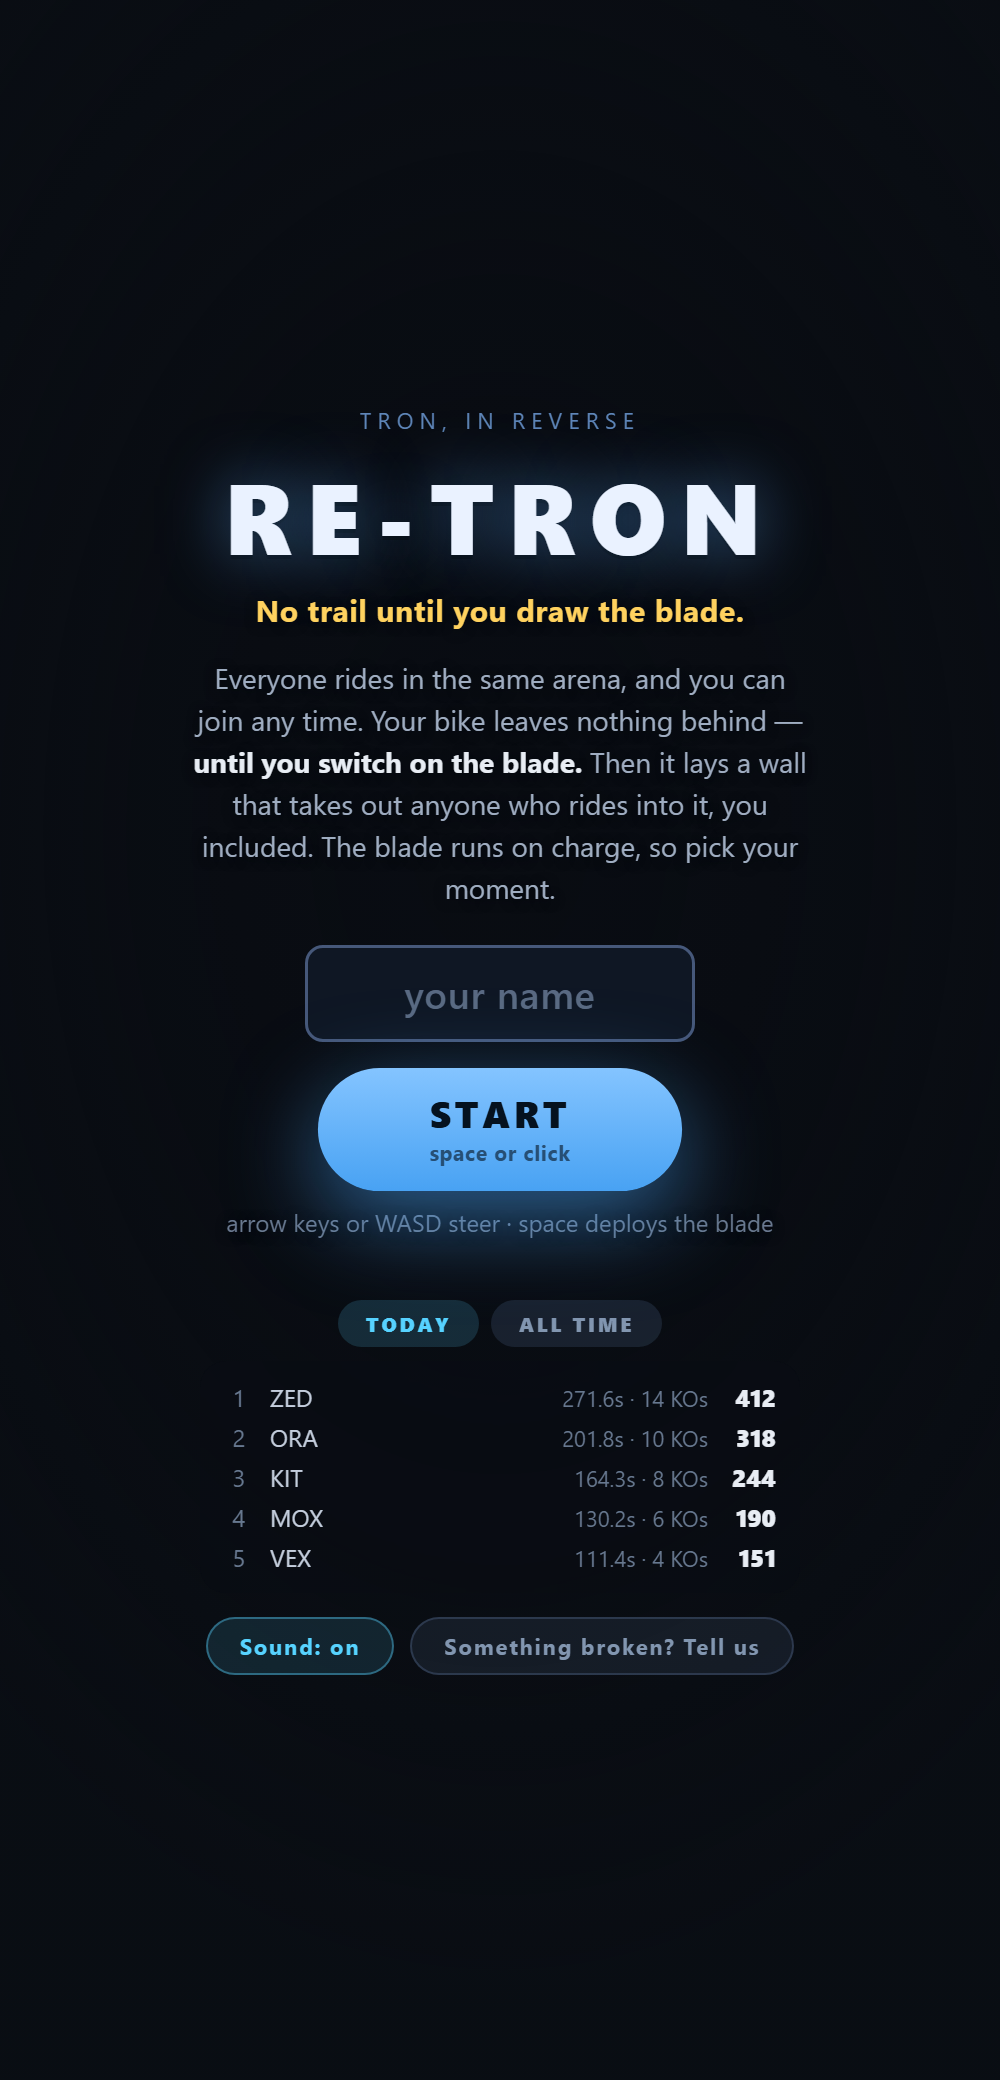
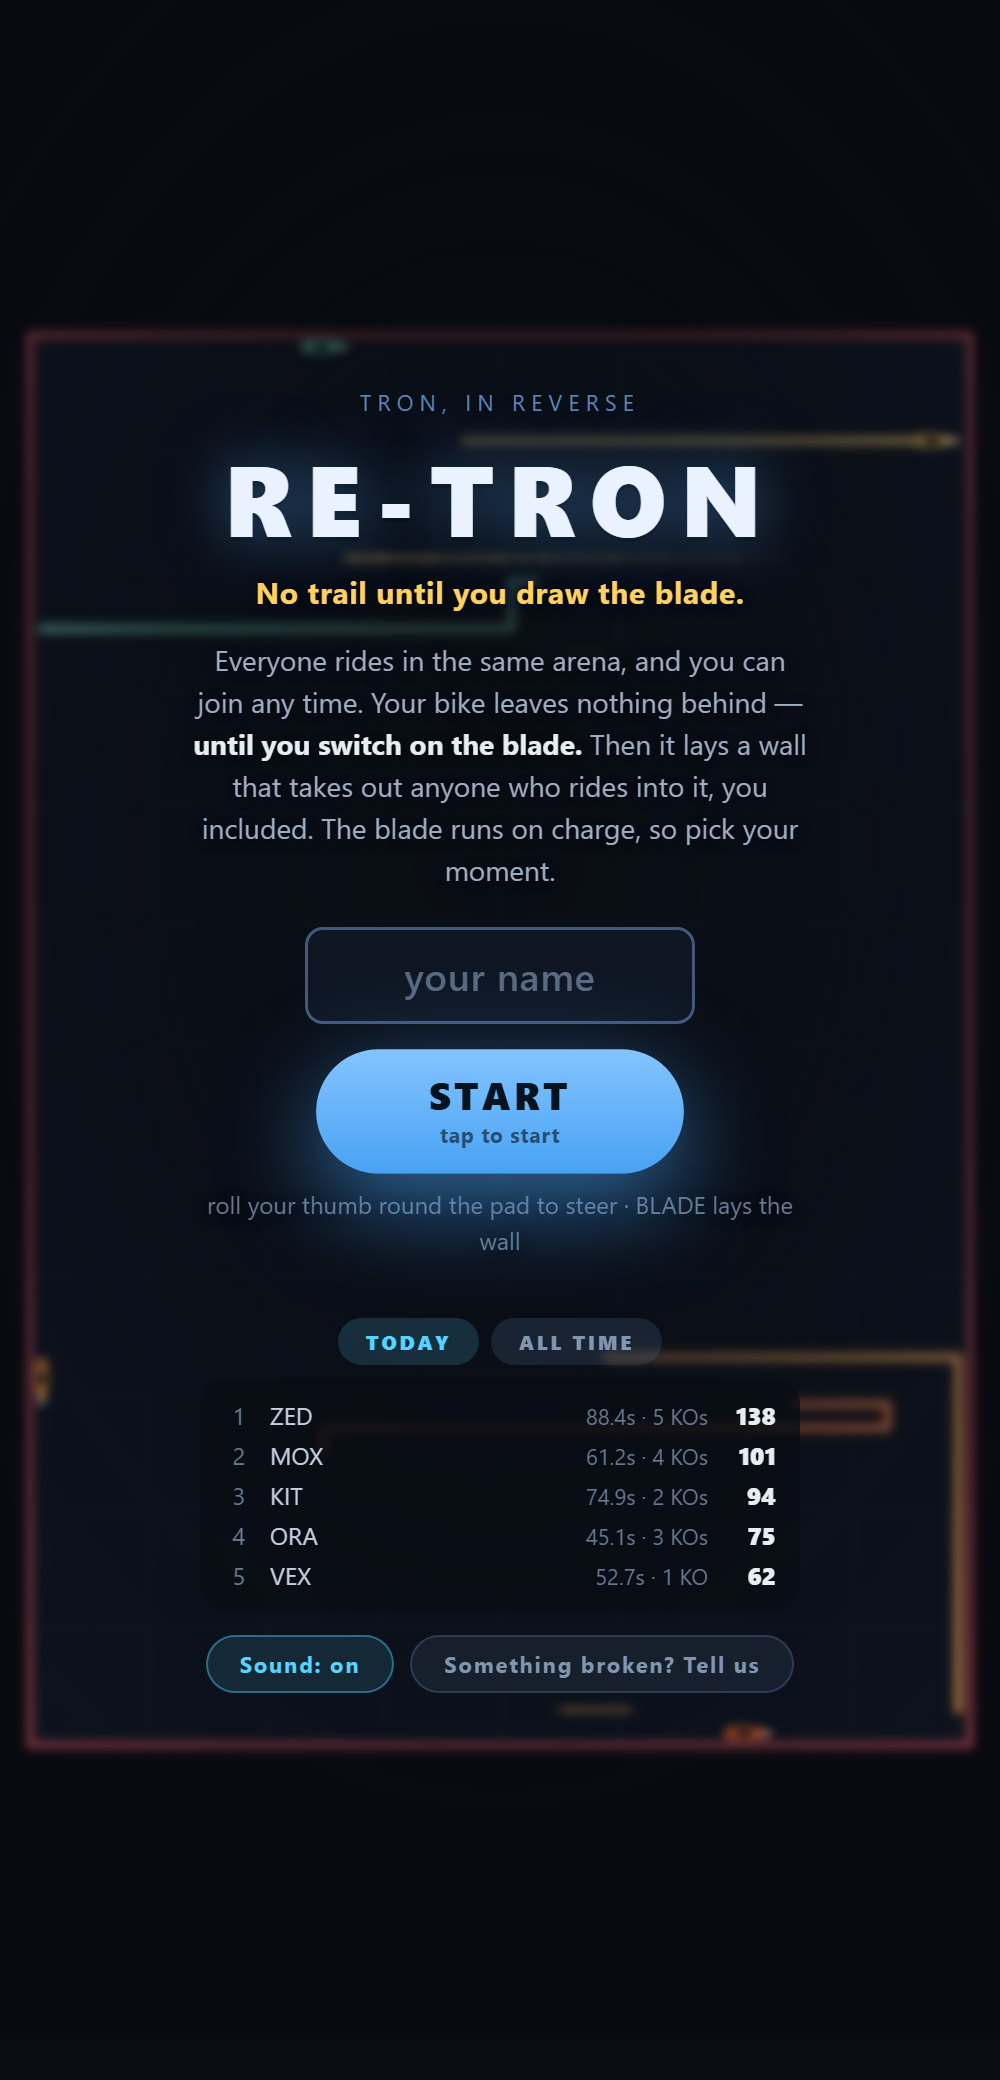
The one picture of the menu told phone players to press keys they do not have
shot-0-menu.png was made on 30 Sep by a probe that never set isTouch, so it
showed the desktop copy - arrow keys, WASD, space - and the desktop button
subtitle, on the shot most people open from a phone. It also showed an empty
floor behind the menu, three weeks after the attract loop was added precisely
because an empty floor read as dead.

Retaken from the page the way the wide shot now is: make-menu-shot.py forces
isTouch, leaves fetch pending so nothing touches the live arena, steps the
menu's own attract loop with a seeded random, and asks headless Edge for one
frame. Same size as the file it replaces. The seed was picked by measuring
twenty runs for the one that leaves the most ribbon down with all four riders
still up. The board rows are made up, like the wide shot's, but obey the real
scoring rule.

Changed region(s): [[0.0, 0.1562, 0.992, 0.8438], [0.31, 0.4375, 0.341, 0.4688]]

diff --git a/press/make-menu-shot.py b/press/make-menu-shot.py
@@ -1,0 +1,94 @@
+"""Re-take press/shot-0-menu.png from whatever index.html currently draws.
+
+Run it from the repo root: python press/make-menu-shot.py
+
+The shot it replaces was taken on 30 Sep by a probe that never set isTouch, so the one picture of
+the menu showed the DESKTOP copy ("arrow keys or WASD steer - space deploys the blade", "space or
+click") squeezed into a phone's proportions - keys a phone does not have, on the shot most people
+open from a phone. It also showed an empty floor behind the menu, three weeks after the attract
+loop was added precisely because an empty floor read as dead. Same lesson as the wide shot: the
+picture has to be regenerated from the page, not remembered.
+
+How it works: index.html is copied to a scratch probe with requestAnimationFrame stubbed out, fetch
+left pending (so nothing touches the live arena and the board never says it failed to load) and
+isTouch forced true, then the menu's own attract loop is stepped a few hundred times for riders on
+the floor and headless Edge is asked for one screenshot. Quirks handled, all measured:
+  * Edge lays the page out at the window size but reports innerWidth/innerHeight smaller, so the
+    canvas is sized from the window size rather than from fit().
+  * Edge does not composite a canvas into --screenshot, so the probe hands it a plain <img> of the
+    same pixels (cv.toDataURL) BEHIND the menu, and hides the canvas. The overlay is DOM and
+    composites on its own.
+  * Back-to-back Edge runs write nothing at all, roughly every other try, hence the retry loop.
+  * Math.random is seeded, so the riders land in the same place every run and a re-shoot is a
+    re-shoot rather than a new picture.
+
+The board rows are made up, the same way the wide shot's in-arena top-riders list is: the live board
+is pre-launch junk and will be wiped on launch morning. They obey the real scoring rule
+(score = whole seconds alive + 10 per knockout) so nothing in the picture is impossible.
+"""
+import os, shutil, subprocess, sys, tempfile, time
+
+EDGE = r"C:/Program Files (x86)/Microsoft/Edge/Application/msedge.exe"
+HERE = os.path.dirname(os.path.abspath(__file__))
+ROOT = os.path.dirname(HERE)
+PROBE = os.path.join(ROOT, "_probe_menu.html")
+OUT = os.path.join(HERE, "shot-0-menu.png")
+CSS_W, CSS_H, SCALE = 500, 1040, 2        # 1000x2080, the size of the file this replaces
+
+SCENE = """
+<script>
+setTimeout(function () {
+  let seed = 118785;   // picked by measurement: of twenty, the run that leaves the most ribbon on the floor with all four riders still up
+  Math.random = () => (seed = (seed * 1103515245 + 12345) & 0x7fffffff) / 0x80000000;
+  for (let i = 0; i < 520; i++) demoStep();   // the menu's own riders, laying and losing real ribbon
+  lbData = {
+    today: [['ZED', 138, 88.4, 5], ['MOX', 101, 61.2, 4], ['KIT', 94, 74.9, 2], ['ORA', 75, 45.1, 3], ['VEX', 62, 52.7, 1]],
+    all: [['ZED', 309, 199.3, 11], ['NYX', 241, 141.6, 10], ['MOX', 188, 128.4, 6], ['KIT', 150, 90.2, 6], ['ORA', 121, 71.8, 5]]
+  };
+  lbView = 'today'; paintLb();
+  dpr = %(scale)d; cw = %(w)d; ch = %(h)d;
+  cv.style.width = cw + 'px'; cv.style.height = ch + 'px';
+  cv.width = cw * dpr; cv.height = ch * dpr;
+  draw();
+  const img = new Image();
+  img.src = cv.toDataURL('image/png');
+  img.style.cssText = 'position:fixed;left:0;top:0;width:' + cw + 'px;height:' + ch + 'px;z-index:0';
+  cv.style.display = 'none';
+  document.body.prepend(img);
+}, 1200);
+</script>
+""" % {"scale": SCALE, "w": CSS_W, "h": CSS_H}
+
+
+def main():
+    page = open(os.path.join(ROOT, "index.html"), encoding="utf-8").read()
+    if page.count("<script>") != 1:
+        sys.exit("index.html no longer has exactly one <script> block - check the probe still fits")
+    if page.count("const isTouch =") != 1:
+        sys.exit("index.html no longer declares isTouch once - check the probe still fits")
+    page = page.replace("<script>", "<script>requestAnimationFrame = () => 0; fetch = () => new Promise(() => {});", 1)
+    page = page.replace("const isTouch =", "const isTouch = true ||", 1)   # a phone, so the phone copy and the pad
+    page = page.replace("</body>", SCENE + "</body>", 1)
+    open(PROBE, "w", encoding="utf-8", newline="").write(page)
+    profiles = tempfile.mkdtemp(prefix="retron-shot-")   # not under ROOT: these must never land in the repo
+    try:
+        if os.path.exists(OUT):
+            os.remove(OUT)
+        for i in range(6):
+            subprocess.run([EDGE, "--headless=new", "--disable-gpu", "--hide-scrollbars",
+                            "--window-size=%d,%d" % (CSS_W, CSS_H),
+                            "--force-device-scale-factor=%d" % SCALE,
+                            "--screenshot=" + OUT, "--virtual-time-budget=6000",
+                            "--user-data-dir=%s" % os.path.join(profiles, str(i)),
+                            "file:///" + PROBE.replace(os.sep, "/")], capture_output=True)
+            if os.path.exists(OUT):
+                print("wrote %s (%d bytes) on try %d" % (OUT, os.path.getsize(OUT), i + 1))
+                return
+            time.sleep(3)
+        sys.exit("Edge wrote no screenshot in six tries")
+    finally:
+        os.path.exists(PROBE) and os.remove(PROBE)
+        shutil.rmtree(profiles, ignore_errors=True)
+
+
+main()

diff --git a/press/launch-copy.md b/press/launch-copy.md
@@ -110,7 +110,7 @@ All four verdicts are asserted offline by `python preflight.py --self-check`.
 | `re-tron.zip` | The game for itch's upload box: index.html, manifest, icons, favicon, og.png. No build step, no server files — the arena is a Cloudflare Worker the page talks to over the network. **Repack it whenever any of those eight files changes** (preflight compares all eight, not just index.html), and always after the feature freeze, with the command under “Repacking the zip” below — plain `git archive` is not enough. |
 | `re-tron-run.gif` | 6s loop, 460x690, 0.9 MB. The whole arena from above, six bikes, one of them cyan. Bikes ride blank, switch the blade on, lay ribbons, box each other in, and the walls fade. Recorded from the game's own attract loop, not a mock-up. |
 | `itch-cover.png` | 1260x1000 itch cover (2x itch's 630x500, same ratio) in the Breakin/Snaked layout: the arena live behind, RE-TRON and the tagline on a dark band at the foot. |
-| `shot-0-menu.png` | The menu at phone width (1000x2080, 2x). Under itch's 2160px limit. |
+| `shot-0-menu.png` | The menu at phone width (1000x2080, 2x). Under itch's 2160px limit. **Retaken 17 Oct and regenerable: `python press/make-menu-shot.py`.** The first one was made by a probe that never set isTouch, so it showed the DESKTOP controls line - arrow keys, WASD, space - on the shot most people open from a phone, and an empty floor behind the menu three weeks after the attract loop was added. It now reads the thumb-pad line, says 'tap to start', and has four riders laying ribbon behind it. The board rows in it are made up (the live board is pre-launch junk) but obey the real scoring rule. |
 | `shot-1-arena-phone.png` | Mid-run on a phone: six bikes, your ribbon curling back under you, one rider heading straight at it. Shows the arrow pad and the BLADE button. |
 | `shot-2-knockout-phone.png` | The moment a rival rides into your wall and derezzes into tumbling cubes. Strongest single image. |
 | `shot-3-arena-wide.png` | 1280x720 on a computer, keyboard HUD. Good for a page header. **Retaken 17 Oct and regenerable: `python press/make-wide-shot.py`.** The first one was shot on 30 Sep, the day before the camera changed, so it showed the arena floating in black down both sides — a layout the game no longer has. If the look of the arena ever changes again, run that script rather than trusting this file. |
